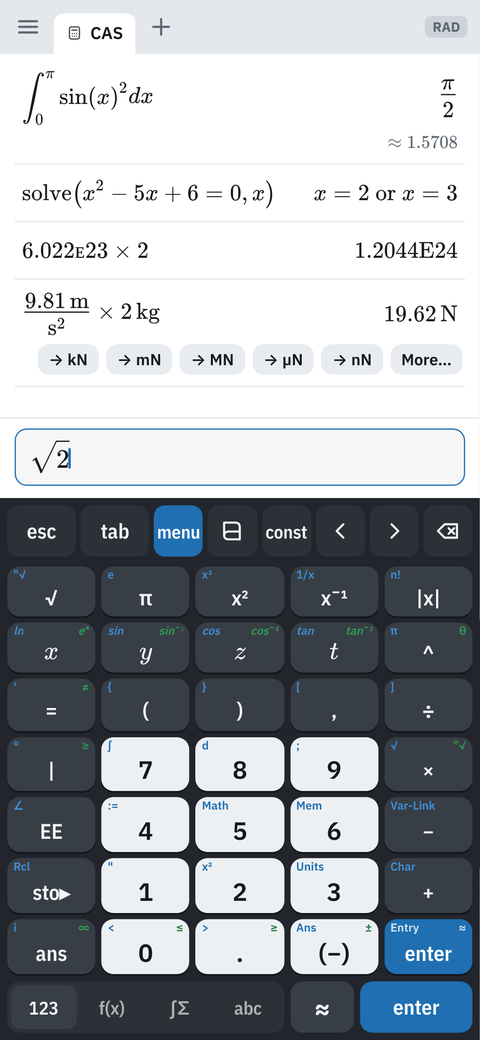
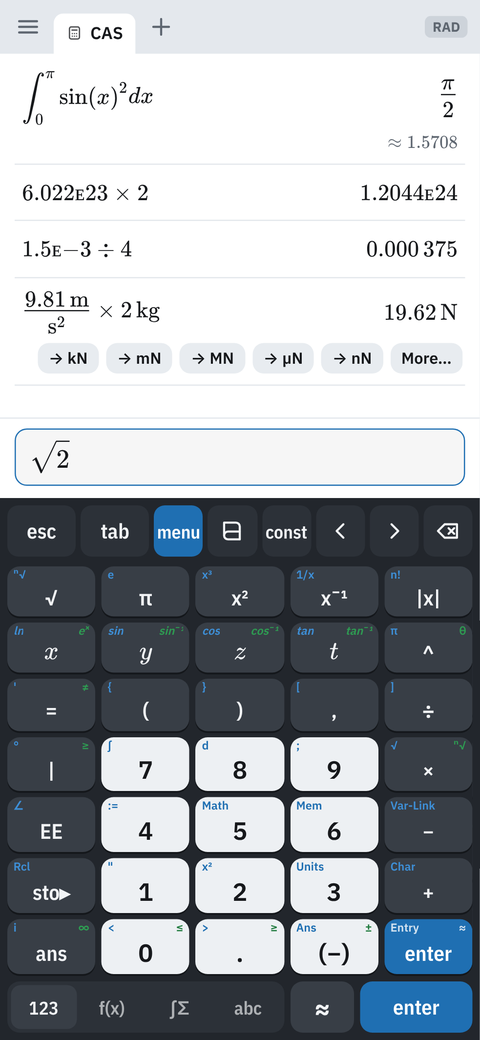
2.7.5: answers use the same small capital ᴇ as the EE key
Claude-Session: https://claude.ai/code/session_01SACa6qUXvmTTUviNpZMtvy

diff --git a/app/www/js/giacfmt.js b/app/www/js/giacfmt.js
@@ -8,6 +8,8 @@
   'use strict';
 
   // ---------------------------------------------------------------- tokenizer
+  /** The exponent of a shown answer: the same small capital ᴇ the EE key types (2.5ᴇ24, 1.5ᴇ−3). */
+  const eeTex = (e) => { e = String(e).replace(/^\+/, ''); return 'ᴇ' + (e[0] === '-' ? '{-}' + e.slice(1) : e); };
   function lex(s) {
     const t = []; let i = 0;
     const two = [':=', '==', '!=', '<=', '>=', '->', '&&', '||', '=>'];
@@ -156,14 +158,14 @@
       const ms = g(String(m).includes('e') ? m.toFixed(Math.max(0, digits - 1)) : String(m));
       if (e === 0) return ms;
       if (opts.editable) return ms + 'ᴇ' + e;   // TI-style, read back by tex2giac
-      return ms + '\\mathrm{E}{' + e + '}';
+      return ms + eeTex(e);
     }
     if (opts.sci || (ax !== 0 && (ax >= 1e12 || ax < 1e-4))) {
       s = x.toExponential(Math.max(0, digits - 1));
       let [m, e] = s.split('e');
       if (m.includes('.')) m = m.replace(/0+$/, '').replace(/\.$/, '.');
       if (opts.editable) return m + 'ᴇ' + (e[0] === '+' ? e.slice(1) : e);
-      return m + '\\mathrm{E}{' + (e[0] === '+' ? e.slice(1) : e) + '}';
+      return m + eeTex(e);
     }
     s = x.toPrecision(digits);
     if (s.includes('e')) return fmtNum(x.toExponential(), { ...opts, sci: true });

diff --git a/tests/docshots.py b/tests/docshots.py
@@ -33,8 +33,8 @@ async def main():
             return ctx, pg
         # CAS with its keypad
         ctx, pg = await fresh()
-        for t in ['\\int_0^{\\pi}\\sin\\left(x\\right)^2dx', '\\operatorname{solve}\\left(x^2-5x+6=0,x\\right)',
-                  '6.022ᴇ23\\times2']:
+        for t in ['\\int_0^{\\pi}\\sin\\left(x\\right)^2dx',
+                  '6.022ᴇ23\\times2', '1.5ᴇ{-}3\\div4']:
             await cas(pg, t)
         # units typed the way the keypad does it: 9.81 _m/_s² × 2 _kg
         await pg.evaluate("(() => { const p=__app.page; p.mf.value='9.81'; p.mf.focus(); p.mf.position=99; })()")

diff --git a/CHANGELOG.md b/CHANGELOG.md
@@ -8,7 +8,7 @@ CalcShelf was called **CAS Touch** up to 2.6.1, and began as **TI-89 Touch** (1.
 - **sin(x)² is read as (sin x)²**, as on a TI calculator. Before, it was read as sin(x²).
 - **Units in results are tidied when Giac writes them with /** too, so 9.81 m/s² × 2 kg gives 19.62 N. Units typed in the entry line show upright in the history (9.81 m, not _m).
 - **Guide pictures** retaken with the current screens.
-- **EE works as on a TI calculator:** it types a small capital ᴇ and the exponent stays on the same line (6.02ᴇ23, 1.5ᴇ−3). A number with ᴇ counts as one number, so 1/2ᴇ3 is 1/2000. Answers you reuse come back in the same form.
+- **EE works as on a TI calculator:** it types a small capital ᴇ and the exponent stays on the same line (6.02ᴇ23, 1.5ᴇ−3). A number with ᴇ counts as one number, so 1/2ᴇ3 is 1/2000. Answers in scientific notation show the same ᴇ (1.2044ᴇ24), and come back in that form when you reuse them.
 - **Security review and hardening:**
   - **Content security policy:** every page may only load the app's own files. Nothing can be fetched from, or sent to, another site, and injected scripts don't run.
   - **Links:** the link handler opens only web pages (http and https) in the browser, and blocks any other kind of link.

diff --git a/docs/USER_GUIDE.md b/docs/USER_GUIDE.md
@@ -97,7 +97,7 @@ The **≈** key evaluates to a decimal instead of an exact answer. **enter** eva
   - **See what's defined:** use **menu → Actions → Variables**.
 - **ans** recalls the last answer. **Long-press enter** to choose **Entry**, which recalls the last entry for editing, or **≈**.
 - **In the history, ans shows its value.** `ans×2` after 5 is saved as `5×2`.
-- **EE works as on a TI calculator.** It types a small capital **ᴇ**, and the exponent goes on the same line: `6.02ᴇ23`, `1.5ᴇ−3` (use **(−)** for the minus). The number and its exponent count as one number, so `1/2ᴇ3` is 1/2000.
+- **EE works as on a TI calculator.** It types a small capital **ᴇ**, and the exponent goes on the same line: `6.02ᴇ23`, `1.5ᴇ−3` (use **(−)** for the minus). The number and its exponent count as one number, so `1/2ᴇ3` is 1/2000. Answers in scientific notation use the same ᴇ (`1.2044ᴇ24`).
 
 ### Results and history
 
